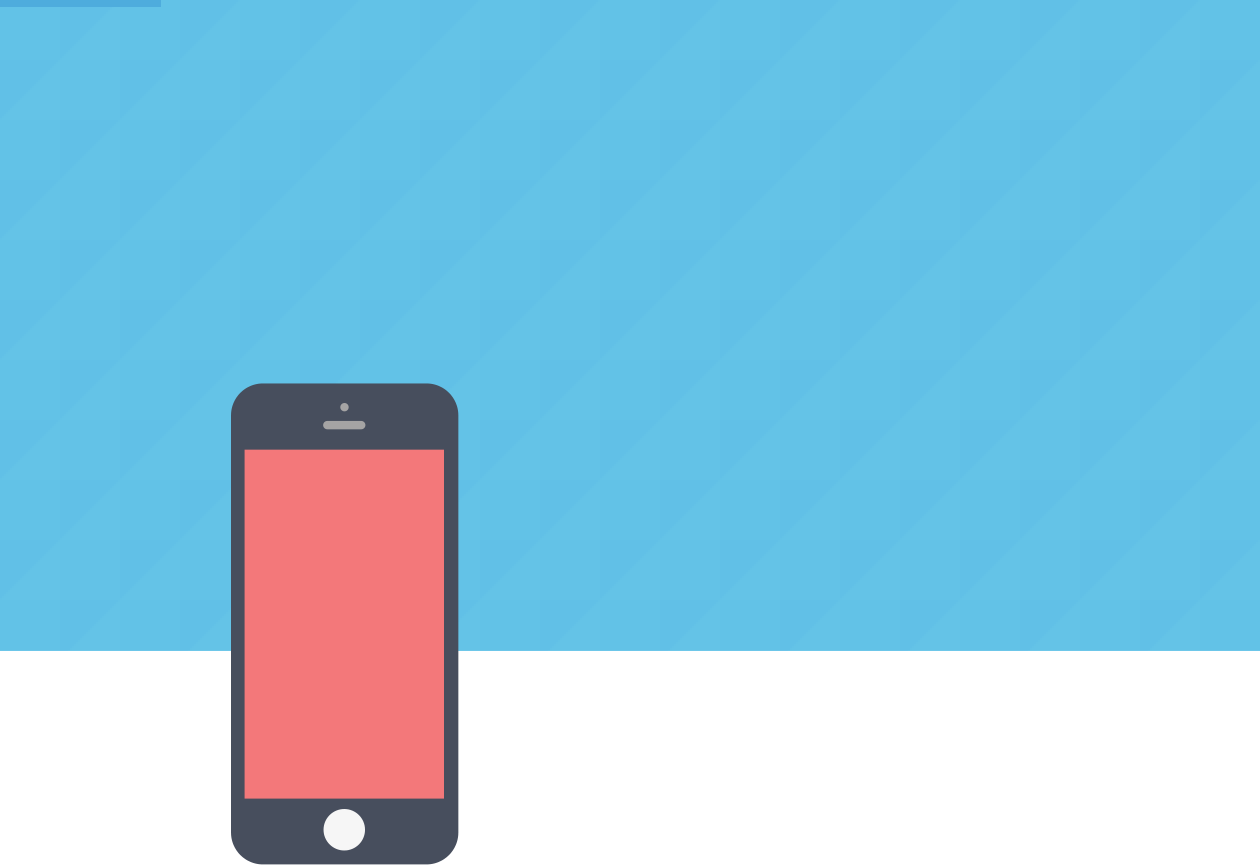
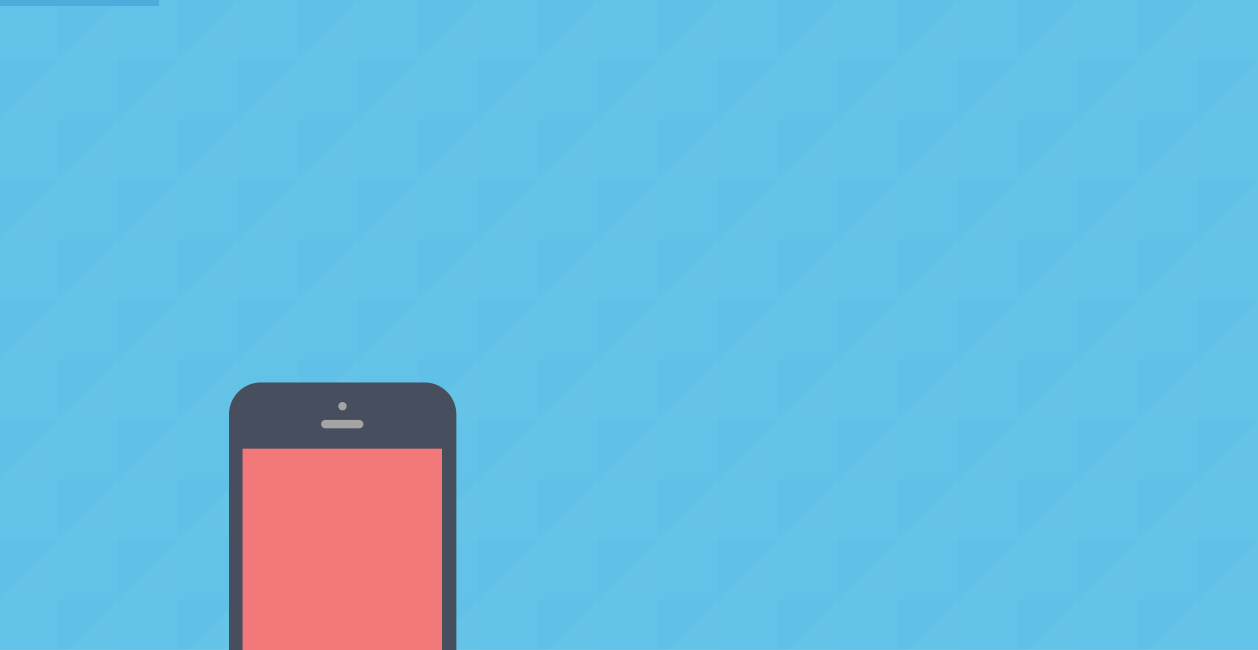
11 versi nadeyus vse

Changed region(s): [[0.0, 0.4308, 1.0, 1.0]]

diff --git a/css/style.css b/css/style.css
@@ -22,12 +22,12 @@ h2 {
 }
 
 .nav {
-    background-color: #63c2e7;
+    background: url(../img/heder_bg.png) no-repeat center top / cover; 
     max-height: 650px;
 }
 
 .container_header {
-  background: url(../img/iphone5.png) no-repeat left 20px top 380px;
+  background: url(../img/iphone5.png) no-repeat left 80px top 380px;
   max-width: 960px;
   height: 650px;
   margin: 0 auto;
@@ -157,62 +157,55 @@ h2 {
 
 
 /*************Portfolio******************/
-
-.nav_ptf {
+.nav_2 {
     background-color: #ffffff;
     max-height: 650px;
 }
-.portfolio {
-    background: url(../img/devices.png) no-repeat left 0px top 280px;
-}
-.container_ptf{       
+.container_prf{
     max-width: 960px;
-    height: 650px;
     margin: 0 auto;
+    padding-top: 130px;
 }
 .text-portfolio{
-    margin-left: 620px;
-    
+    display: flex;
+    flex-direction: column;
+    text-align: right;
+
 }
 .name_portfolio{
     font-size: 40px;
-    margin-top: 130px;
 }
 .text_prf{
-    font-family: 'Slabo 27px', serif;
     font-size: 16px;
-    margin-top: 150px;
+}
+.portfolio {
+    margin-top: 0 ;
+    padding-top: 100px;
+    height: 100vh;
+    background: url(/img/bg_portfolio.png) no-repeat;
+    background-size: 100%;
 }
 
-
 .botton-portfolio {
-    display: flex;
- justify-content: flex-end;
- margin-right: 115px;
+
 }
 
 .btn_3 {
     display: flex;
     width: 225px;
     height: 60px; 
-    margin-top: 140px;
+    justify-content: flex-end;
+    float: right;
 }
 
 .btn3 {
-    width: 225px;
-    height: 60px;
+    width: 200px;
+    height: 70px;
     border: 3px solid #ea4c89;
     background-color:rgba(255, 255, 255, 0) ;
     text-align: center;
-    padding-right: 20px;
-    padding-left: 20px;
     color: #ea4c89;
-    display: -webkit-flex;
-    display: -moz-flex;
-    display: -ms-flex;
-    display: -o-flex;
-    display: flex;
-    justify-content: space-between;
+    
 }
 /*************Donate******************/
 .donate {
@@ -222,9 +215,6 @@ h2 {
     padding-top: 100px;
     height: 325px;
 }
-h3{
-    font-size: 40px;
-}
 .donat {
     display: flex;
     justify-content: center;
@@ -232,20 +222,27 @@ h3{
     flex-direction:column;
 }
 .btn_4 {
-   
+    
+    right: 490px;
+    margin-top: 40px;
     display: flex;
     width: 170px;
     height: 60px;
     justify-content:center;
 }
 .btn4{
-    width: 200px;
-    height: 70px;
+    width: 225px;
+    height: 60px;
     border: 3px solid white;
     background-color:rgba(255, 255, 255, 0) ;
     text-align: center;
     color: white;
     
+}
+.name_donat{
+    font-size: 40px;
+    margin-top: -120px;
+    color: #ffffff;
 }
 .contact{
     margin-top: 0 ;
@@ -261,16 +258,62 @@ h3{
     justify-content: space-evenly;
     align-items:center;
     width: 330px;
-    margin: 0 auto;
+    margin: 0 auto
     
 }
 .email{
-    border-radius: 10px;
-    height: 45px;
-    width: 210px;   
-    text-align: left;
-    border: 3px solid white;
+    border-radius: 5px;
+    
 }
+.newsletter_subscription{
+    display:inline-block;
+    padding:4em 0 0 0;
+}
+.newsletter_subscription h3{
+	float:left;
+	font-size:1em;
+	font-style:italic;
+	color:#676767;
+	padding:0 30px 0 0;
+}
+.search_box {
+	float:left;
+	background:#FFF;
+	position: relative;
+	border-radius:3px;
+	-webkit-border-radius:3px;
+	-moz-border-radius:3px;
+	-o-border-radius:3px;
+	margin:0px auto;
+	padding:8px 0;
+	width:300px;
+}
+.search_box form input[type="text"] {
+	border: none;
+	outline: none;
+	background: none;
+	font-size:0.8em;
+	color:#D3D3D3;
+	width:80%;
+	padding:6px 0;
+    -webkit-appearance:none;
+    border-right: 1px solid #EEE;
+	font-family: 'Open Sans', sans-serif;
+	margin:0;
+}
+.search_box form input[type="text"]:focus{
+	color:#676767;
+}
+.search_box form input[type="submit"] {
+	border: none;
+	outline:none;
+	cursor: pointer;
+	background: url(../img/mail_2.jpeg) no-repeat;
+	margin-top:5px;
+	float: right;
+	width:24px;
+	margin-right:10px;
+}	
 footer{
     margin-top: 0 ;
     height: 100%;
@@ -280,8 +323,8 @@ footer{
 }
 .text_footer{
     display:flex;
+    align-items: center;
     align-content: center;
-    justify-content: center;
 }
 .contact-content{
 

diff --git a/index.html b/index.html
@@ -5,7 +5,6 @@
 	<title>Meet Perth</title>
 	<link rel="stylesheet" href="css/style.css">
 	<link href="https://fonts.googleapis.com/css?family=Dancing+Script:400,700&display=swap" rel="stylesheet">
-	<link href="https://fonts.googleapis.com/css?family=Slabo+27px&display=swap" rel="stylesheet">
 	<link href="https://fonts.googleapis.com/css?family=Dancing+Script:400,700|Tajawal:400,500,700,800&display=swap&subset=latin-ext" rel="stylesheet">
 	<link rel="stylesheet" href="https://use.fontawesome.com/releases/v5.7.2/css/all.css" integrity="sha384-fnmOCqbTlWIlj8LyTjo7mOUStjsKC4pOpQbqyi7RrhN7udi9RwhKkMHpvLbHG9Sr" crossorigin="anonymous">
 	<!-- Подключаешь шрифты через link (всегда) -->
@@ -52,9 +51,9 @@
 			</div>  
 		</div>
     </div>
-    <div class="nav_ptf">
+    <div class="nav_2">
 	<div class="portfolio">
-		<div class="container_ptf">
+		<div class="container_prf">
             <div class="text-portfolio">
 			    <h3 class="name_portfolio" >Get a Dog Up Ya’</h3>
 			    <p class="text_prf" >She'll be right paddock how lets throw a ciggies. <br>
@@ -65,19 +64,19 @@
             </div>
 			<div class="botton-portfolio">
 				<div class="btn_3">
-					<button class="btn3">VIEW ON DREABLE<i class="fab fa-dribbble"></i></button>   
+					<button class="btn3">VIEW ON DREABLE<i class="fas fa-basketball-ball"></i></button>   
 				</div>  
 			</div>
 		</div>
     </div>
 </div>
 	<div class="donate">
-		<div class="container_donate">
+		<div class="container">
 			<div class="donat">
-				<h3>Like What You See?</h3>
+				<h2 class="name_donat">Like What You See?</h2>
 				<div class="botton-donate">
 					<div class="btn_4">
-						<button class="btn4">SAY HELLO<i class="fas fa-beer"></i></button>   
+						<button class="btn4">BUY ME A <b>BEER</b>?<i class="fas fa-beer"></i></button>   
 					</div>  
 				</div>
 			</div>
@@ -92,18 +91,23 @@
 					<a href="https://twitter.com/"><img src="img/twitter.png"></a>
 					<a href="https://mail.ru/"><img src="img/mail.png"></a>
 				</div>
-				<p>Newsletter Subscription</p>
-				<div >
-					<input type="text" placeholder="Enter Email"  class="email">
-				</div>
+				<div class="newsletter_subscription"> 	
+					<h3>Newsletter Subscription</h3>
+					<div class="search_box"> 		    		 	
+					  <form>
+						 <input type="text" class="textbox" value="Enter Email" onfocus="this.value = '';" onblur="if (this.value == '') {this.value = 'Enter Email';}">
+						 <input type="submit" value="">
+					  </form>
+				  </div>
+				   <div class="clear"></div>   
+			   </div>
 			</div>
 		</div>
 	</div>
 	<footer>
-		<div class="container"> 
+		<div class="container" class="text_footer"> 
 			<p>© 2013 <span style="color: blue;">Perth</span> Breeding pixels since the naughties.</p>
 		</div>   
 	</footer>
 </body>
 </html>
-<!--https://fontawesome.com/ для иконок-->
